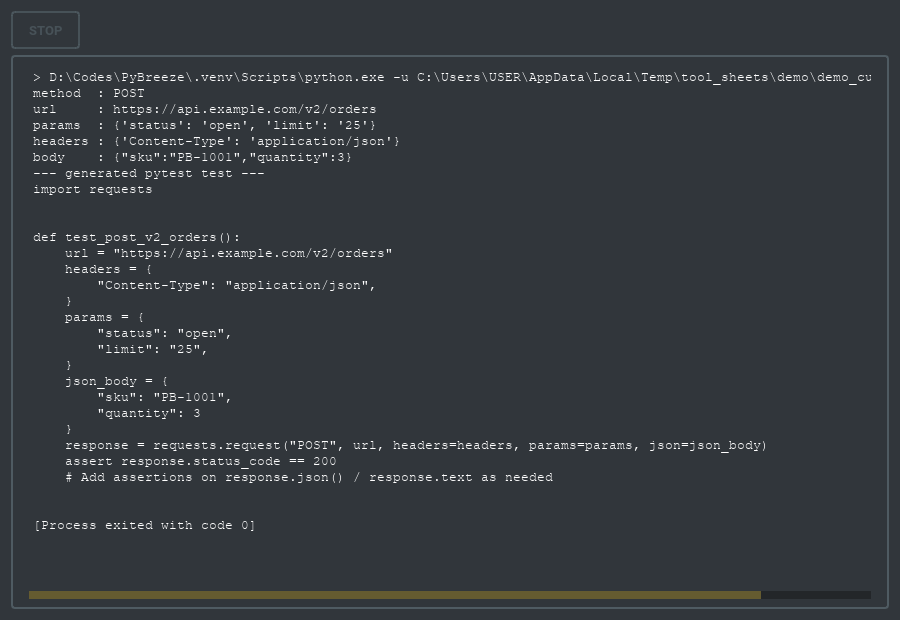
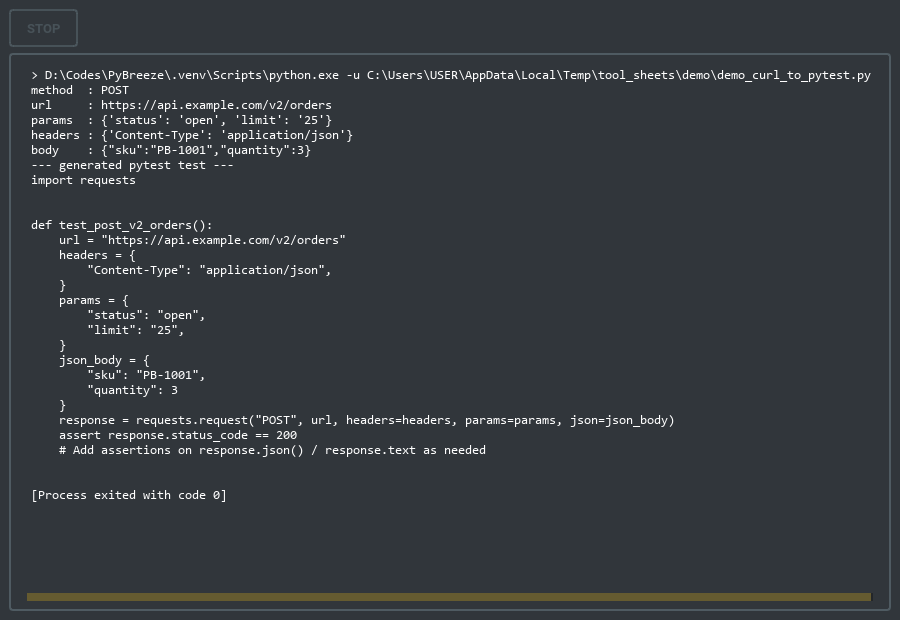
Prefer Consolas to Courier New for terminal output

Changed region(s): [[0.0, 0.0, 0.9956, 1.0], [0.4044, 0.7661, 0.5289, 0.7968], [0.56, 0.7661, 0.6222, 0.7968]]

diff --git a/pybreeze/pybreeze_ui/fixed_pitch.py b/pybreeze/pybreeze_ui/fixed_pitch.py
@@ -1,12 +1,27 @@
-"""A text view in the system's fixed-pitch font, whatever the theme names."""
+"""A text view in a fixed-pitch font, whatever the theme names."""
 from __future__ import annotations
 
-from PySide6.QtGui import QFontDatabase
+from PySide6.QtGui import QFont, QFontDatabase
 from PySide6.QtWidgets import QWidget
+
+# Tried before the system's own fixed-pitch font, which on Windows is Courier
+# New: thin on a dark theme, and at the tools' size it lost the underscores.
+# Consolas is what VS Code shows code in on Windows.
+PREFERRED_FAMILIES = ("Consolas",)
+
+
+def fixed_pitch_font() -> QFont:
+    """The first installed of ``PREFERRED_FAMILIES``, else the system's fixed-pitch font."""
+    for family in PREFERRED_FAMILIES:
+        if QFontDatabase.hasFamily(family):
+            font = QFont(family)
+            font.setFixedPitch(True)
+            return font
+    return QFontDatabase.systemFont(QFontDatabase.SystemFont.FixedFont)
 
 
 def use_fixed_pitch_font(view: QWidget) -> None:
-    """Show *view* in the system's fixed-pitch font, at the size it had.
+    """Show *view* in :func:`fixed_pitch_font`, at the size it had.
 
     Output laid out in columns (``ls -l``, ``df``, a table a script prints)
     lines up only when every character is as wide as the next; in the
@@ -17,7 +32,7 @@ def use_fixed_pitch_font(view: QWidget) -> None:
     ``setFont``, and the view's sheet overrides the application's. The theme's
     size stays.
     """
-    font = QFontDatabase.systemFont(QFontDatabase.SystemFont.FixedFont)
+    font = fixed_pitch_font()
     size = view.font().pointSizeF()
     if size > 0:  # -1 when a style sheet gave the size in pixels
         font.setPointSizeF(size)

diff --git a/test/test_utils/test_terminal_font.py b/test/test_utils/test_terminal_font.py
@@ -12,7 +12,8 @@ from PySide6.QtWidgets import QApplication, QPlainTextEdit, QWidget
 from pybreeze.extend_multi_language.update_language_dict import update_language_dict
 from pybreeze.pybreeze_ui.connect_gui.ssh.ssh_command_widget import SSHCommandWidget
 from pybreeze.pybreeze_ui.show_code_window.code_window import CodeWindow
-from pybreeze.pybreeze_ui.fixed_pitch import use_fixed_pitch_font
+from pybreeze.pybreeze_ui import fixed_pitch
+from pybreeze.pybreeze_ui.fixed_pitch import fixed_pitch_font, use_fixed_pitch_font
 from pybreeze.pybreeze_ui.terminal_view import MIN_COLUMNS, MIN_ROWS, terminal_size
 
 
@@ -24,7 +25,7 @@ def app():
 
 
 def _fixed_family() -> str:
-    return QFontDatabase.systemFont(QFontDatabase.SystemFont.FixedFont).family()
+    return fixed_pitch_font().family()
 
 
 def test_the_view_gets_the_fixed_pitch_font_at_its_own_size(app):
@@ -95,3 +96,16 @@ def test_a_squeezed_view_still_gives_a_usable_size(app):
         assert terminal_size(view) == (MIN_COLUMNS, MIN_ROWS)
     finally:
         view.close()
+
+
+class TestTheFamilyChosen:
+    def test_consolas_comes_before_the_system_font_when_it_is_installed(self, app, monkeypatch):
+        # The system's fixed-pitch font on Windows is Courier New
+        monkeypatch.setattr(fixed_pitch.QFontDatabase, "hasFamily", staticmethod(lambda family: family == "Consolas"))
+
+        assert fixed_pitch_font().family() == "Consolas"
+
+    def test_without_it_the_system_font_is_used(self, app, monkeypatch):
+        monkeypatch.setattr(fixed_pitch.QFontDatabase, "hasFamily", staticmethod(lambda family: False))
+
+        assert fixed_pitch_font().family() == QFontDatabase.systemFont(QFontDatabase.SystemFont.FixedFont).family()

diff --git a/docs/updates/2026-09-b.md b/docs/updates/2026-09-b.md
@@ -1014,3 +1014,13 @@ Continues [2026-09.md](2026-09.md), which passed the batch size limit. Index and
 - **Docs**: `CLAUDE.md` tree, `architecture_explore.md` (run window, SSH terminal).
 - **Files**: `pybreeze/pybreeze_ui/fixed_pitch.py`, `pybreeze/pybreeze_ui/terminal_view.py`, `pybreeze/pybreeze_ui/connect_gui/ssh/ssh_command_widget.py`, `pybreeze/pybreeze_ui/show_code_window/code_window.py`, `test/test_utils/test_terminal_font.py`, `CLAUDE.md`, `architecture_explore.md`
 - **Open items**: none.
+
+## U-20260924-313 · 2026-09-24 · Consolas before Courier New for terminal output · #fix #ui
+
+- **What**: the run window and the SSH terminal took the system's fixed-pitch font, which Qt gives as Courier New on Windows: thin strokes on the dark theme, and at the size the tool tabs use it lost the underscore (`json_body` read as `json body` in a render of the HAR tab's code).
+- **Fix**: `fixed_pitch.fixed_pitch_font()` takes the first installed family of `PREFERRED_FAMILIES` (`Consolas`, what VS Code shows code in on Windows by default: `Consolas, 'Courier New', monospace`) and falls back to the system's fixed-pitch font (Menlo on macOS, DejaVu Sans Mono and the like on Linux); `use_fixed_pitch_font()` uses it.
+- **Tests**: `test_terminal_font.py` gains `TestTheFamilyChosen` (Consolas when installed, the system font otherwise; the font database is replaced, since the offscreen platform lists no families) and compares the views with `fixed_pitch_font()`.
+- **Result / numbers**: `test_terminal_font.py` passes (8). `ruff check` clean.
+- **Docs**: `images/run_output_window.png` redone the same way as in U-20260924-297 (a real run of the same demo script, 900 × 620), now in Consolas; `ssh_client.png` shows no terminal text and is unchanged; `architecture_explore.md` (run window, SSH terminal).
+- **Files**: `pybreeze/pybreeze_ui/fixed_pitch.py`, `test/test_utils/test_terminal_font.py`, `images/run_output_window.png`, `architecture_explore.md`
+- **Open items**: none.

diff --git a/docs/updates/README.md b/docs/updates/README.md
@@ -58,6 +58,7 @@ In the same commit: delete the item from `progress.md`, add a `#done` entry here
 
 | ID | Date | Title | Tags | Batch |
 |---|---|---|---|---|
+| U-20260924-313 | 2026-09-24 | Consolas before Courier New for terminal output | #fix #ui | [2026-09-b](2026-09-b.md) |
 | U-20260924-312 | 2026-09-24 | Move the fixed-pitch font helper out of terminal_view | #refactor #ui | [2026-09-b](2026-09-b.md) |
 | U-20260924-311 | 2026-09-24 | Remove the images nothing shows | #docs #cleanup | [2026-09-b](2026-09-b.md) |
 | U-20260924-310 | 2026-09-24 | Redo the README's main window and correct its caption | #docs #readme | [2026-09-b](2026-09-b.md) |
@@ -394,4 +395,4 @@ In the same commit: delete the item from `progress.md`, add a `#done` entry here
 | File | Period | Entries |
 |---|---|---:|
 | [2026-09.md](2026-09.md) | 2026-09 | 218 |
-| [2026-09-b.md](2026-09-b.md) | 2026-09 | 110 |
+| [2026-09-b.md](2026-09-b.md) | 2026-09 | 111 |
